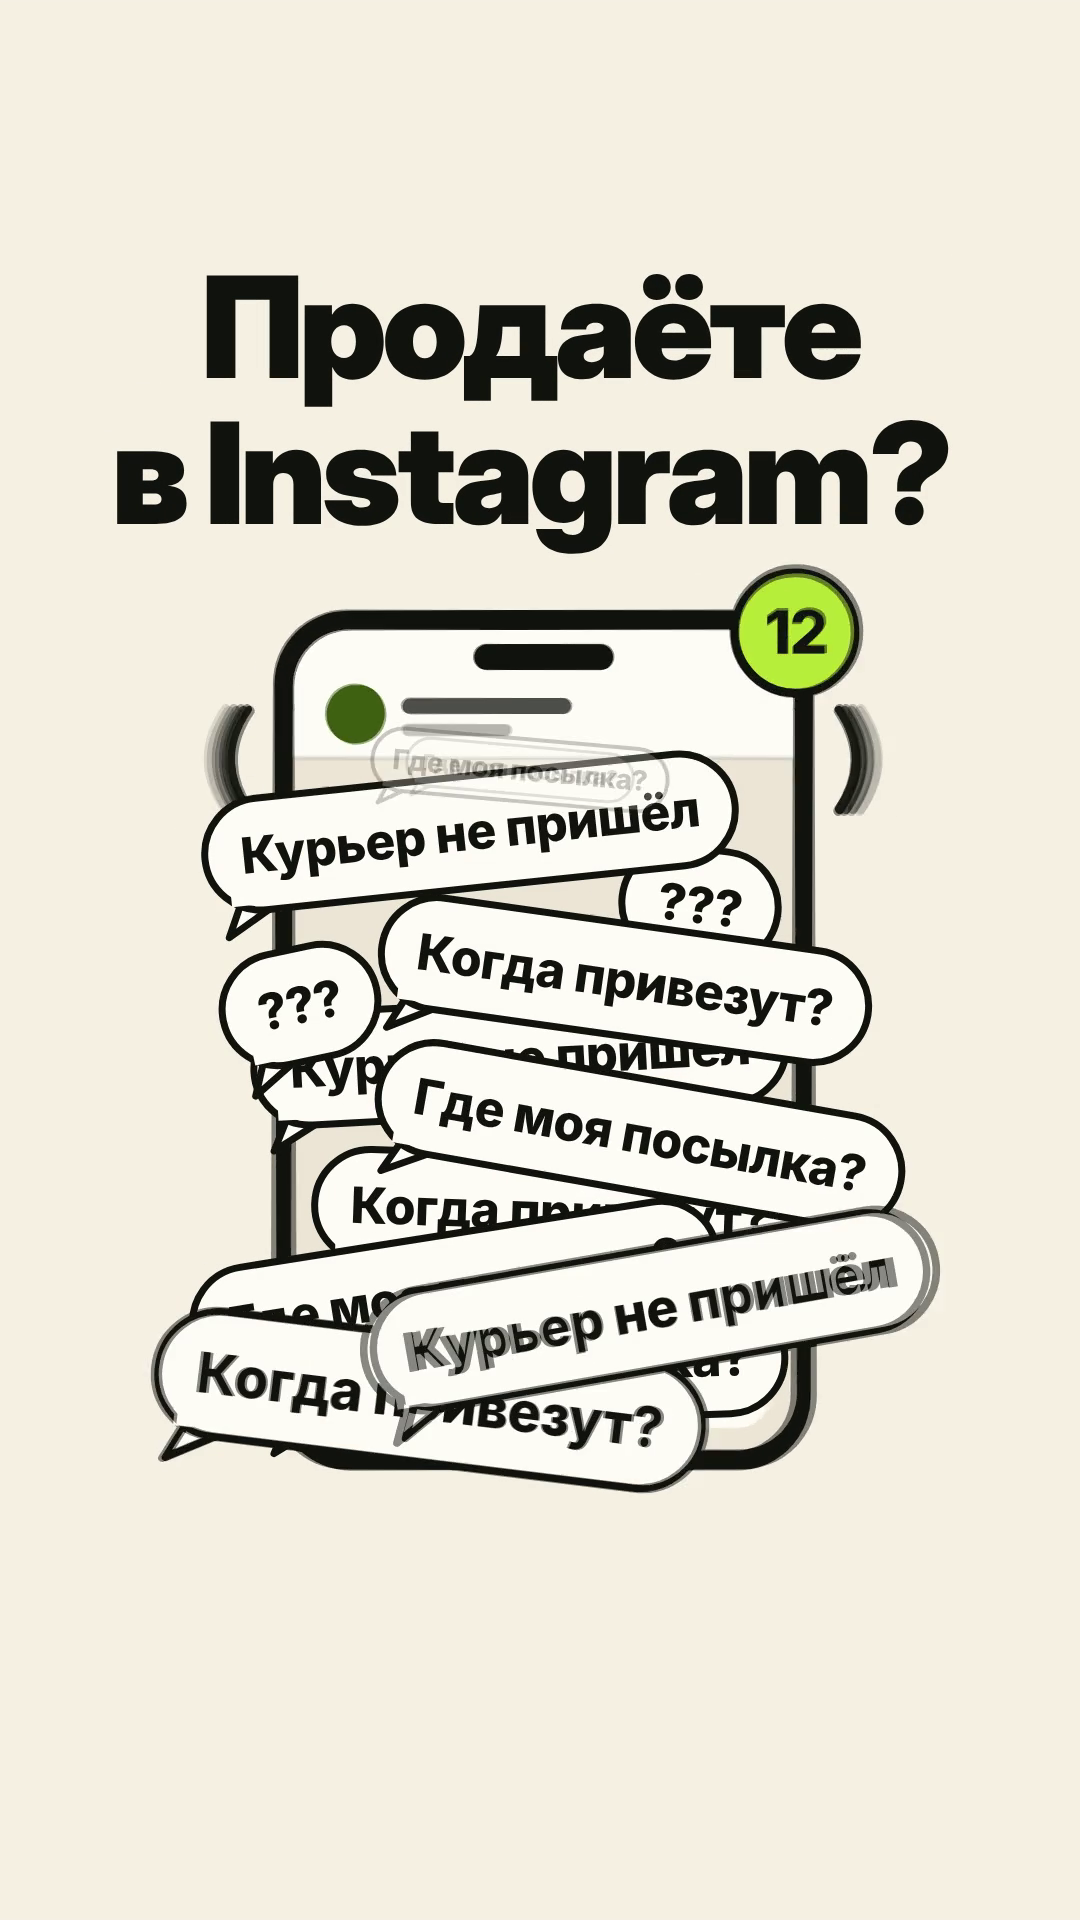
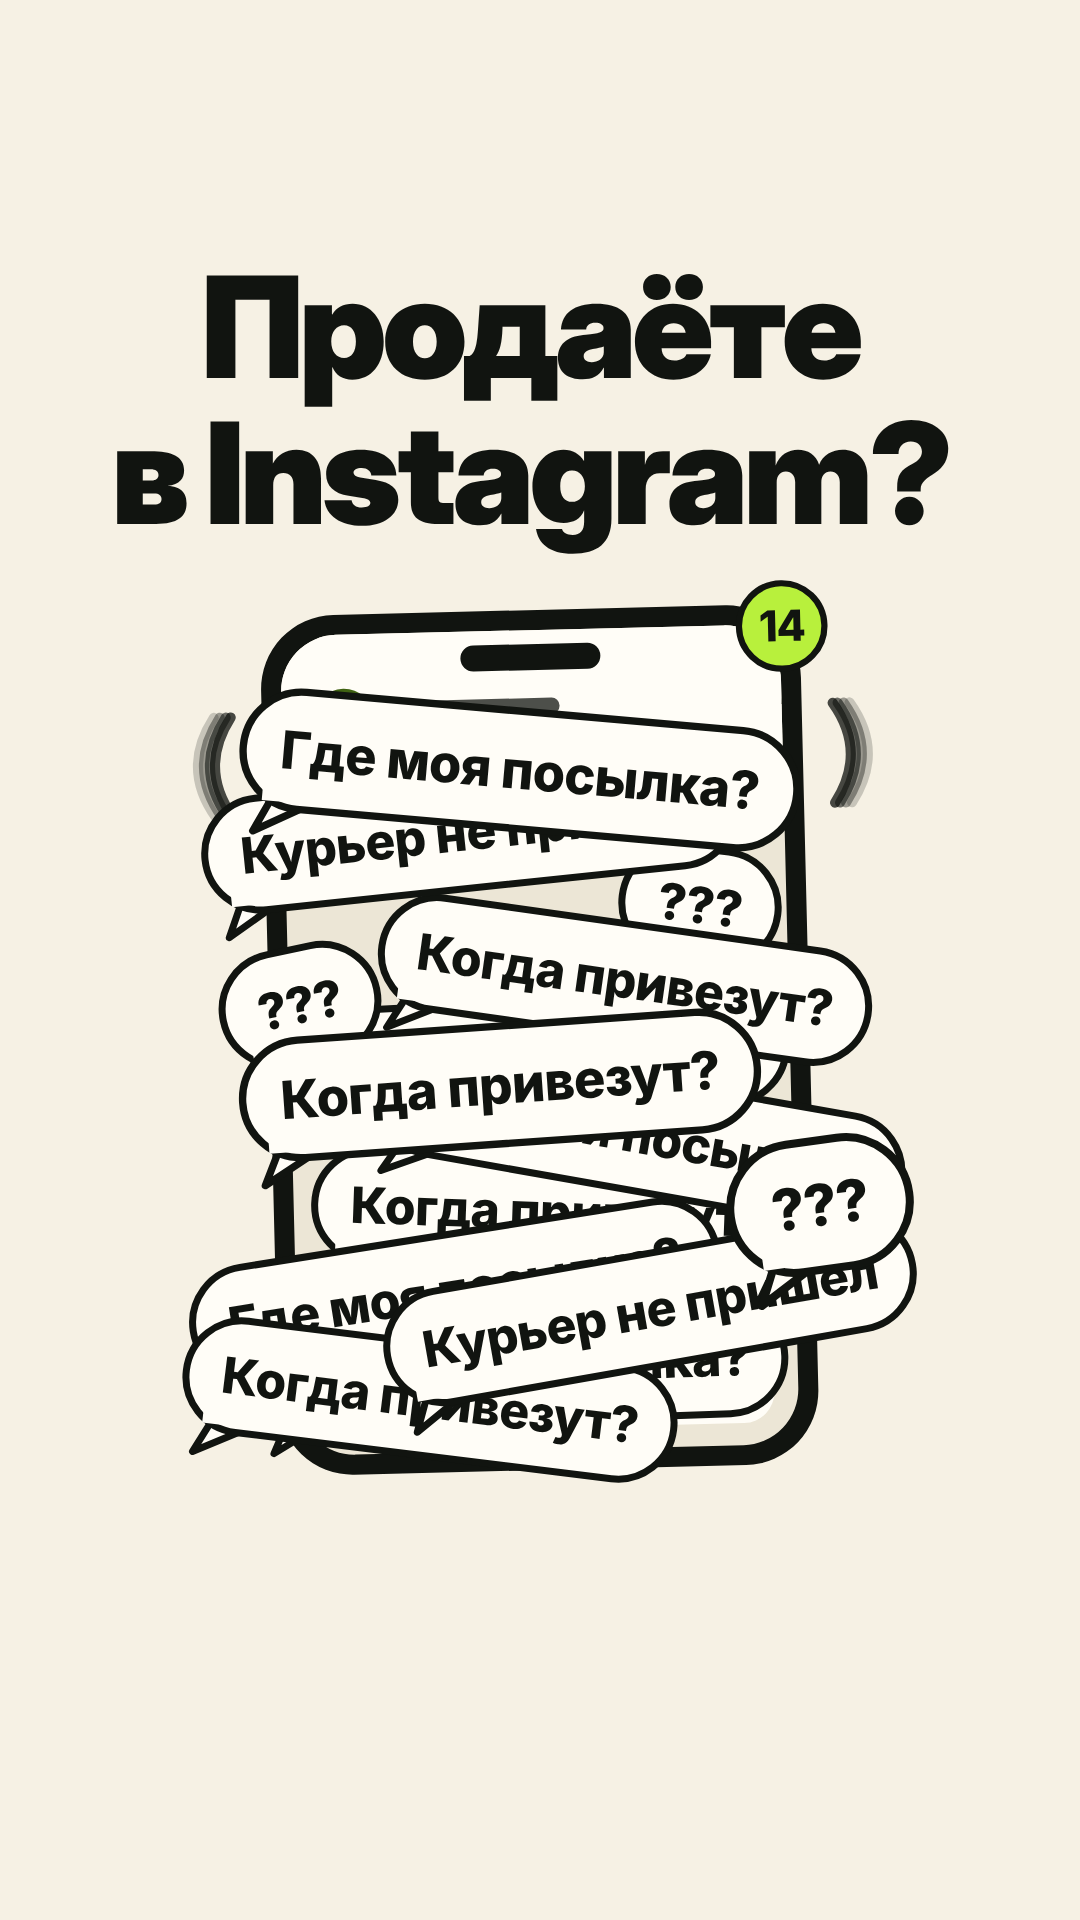
Add Reel 4 «Как отправить посылку»
Claude-Session: https://claude.ai/code/session_01Lm7ffAAt72SNExNHGXPfa4

Changed region(s): [[0.1222, 0.5, 0.8861, 0.7812], [0.1833, 0.2812, 0.825, 0.5], [0.2444, 0.4688, 0.275, 0.5]]

diff --git a/kiwi-go-soon/reels/05-po-vsemu-kg/reel.html b/kiwi-go-soon/reels/05-po-vsemu-kg/reel.html
@@ -20,7 +20,7 @@ svg{display:block}
 // Kiwi Go — Reel 05 «По всему Кыргызстану». Deterministic: render(t) draws the frame at time t (s).
 const C = { lime:'#B8F03C', ink:'#111410', paper:'#FFFDF7', cream:'#F6F1E4', sand:'#ECE6D6',
             peel:'#7A5A3C', green:'#3F6212', rim:'#6BA82B' };
-const W = 1080, H = 1920, CX = 530, DUR = 10.0;
+const W = 1080, H = 1920, CX = 530, DUR = 10.0, MAPY = 740;
 
 // ---------- math / easing ----------
 const clamp = (x, a = 0, b = 1) => Math.min(b, Math.max(a, x));
@@ -81,7 +81,7 @@ const T0 = 3.0, STEP = .55;               // ping times 3.00, 3.55 … 6.30 (bea
 const PING = ORDER.map((_, i) => T0 + i * STEP);
 const LIT = 6.85;                          // whole-country chord
 const HUB = G.hub;
-const DOT = { 'KG.NA': [500, 205], 'KG.DA': [236, 168], 'KG.YK': [664, 118], 'KG.834': [430, 72],
+const DOT = { 'KG.NA': [500, 205], 'KG.DA': [236, 168], 'KG.YK': [652, 168], 'KG.834': [430, 72],
               'KG.OS': [318, 312], 'KG.TL': [196, 96], 'KG.BA': [128, 345] };
 let ROUTES = [], HW = null, HWLEN = 0, OUTLEN = 0, outEl = null;
 
@@ -154,6 +154,12 @@ function mapLayer(t) {
   // ---- internal (oblast) borders, appear after the outline closes
   const ib = prog(t, 2.0, 2.5);
   if (ib > 0) o += `<g clip-path="url(#cc)"><path d="${G.inner}" fill="none" stroke="${C.ink}" stroke-width="3" stroke-linejoin="round" stroke-linecap="round" stroke-dasharray="2 9" opacity="${f2(.55 * ib)}"/></g>`;
+  // ---- Lake Issyk-Kul (real OSM-derived polygon): paper water with a thin ink shore, drawn 1.45–1.95
+  const lk = eInOutS(prog(t, 1.45, 1.95));
+  if (lk > 0) {
+    o += `<path d="${G.lake}" fill="${C.paper}" opacity="${f2(clamp(lk * 3))}"/>`;
+    o += `<path d="${G.lake}" fill="none" stroke="${C.ink}" stroke-width="4" stroke-linejoin="round" pathLength="1000" stroke-dasharray="${f2(1000 * lk)} 1010"/>`;
+  }
   // ---- outline drawing (ink stroke) 0.15–1.85
   const dp = eInOutS(prog(t, .15, 1.85));
   if (dp > 0) {
@@ -218,6 +224,7 @@ function mapLayer(t) {
 let Lh = {};
 function layout() {
   Lh.h = fit(['Доставка', 'по всему', 'Кыргызстану'], 'ID', 770, 150);
+  Lh.q = fit(['Куда', 'доставляем?'], 'ID', 800, 150);
   Lh.kw = measure('Кыргызстану', 'ID', Lh.h, -0.035);
   Lh.pill = fit(['от 350 сом'], 'ID', 640, 120);
   Lh.pillW = measure('от 350 сом', 'ID', Lh.pill, -0.03) + 110;
@@ -231,12 +238,18 @@ function render(t) {
   const mu = eInOutC(prog(t, 6.95, 7.45));
   const sc0 = 1 + .045 * damped(t - LIT, 2.2, 6) * (t >= LIT ? 1 : 0) + .02 * eOutC(prog(t, .0, 1.9)) - .02;
   const sc = lerp(1, .8, mu) * sc0;
-  const cy = lerp(870, 282 + MAP.h * .8 / 2, mu);
+  const cy = lerp(MAPY, 282 + MAP.h * .8 / 2, mu);
   const { o: mo, dyn } = mapLayer(t);
   document.getElementById('dyn').innerHTML = dyn;
   o += `<g transform="translate(${CX},${f2(cy)}) scale(${sc.toFixed(4)}) translate(${f2(-MAP.w / 2)},${f2(-MAP.h / 2)})">${mo}</g>`;
   // celebration seeds when the whole country is lit
-  o += seedBurst(t, LIT, CX, 870, C.ink, 5, 14, 520);
+  o += seedBurst(t, LIT, CX, MAPY, C.ink, 5, 14, 520);
+  // ---- hook question 0 – 6.9 (answered by the headline below)
+  {
+    const qy = 1250, qs = Lh.q * 1.06, qo = [6.85, 6.97];
+    o += popWrap(t, -0.1, text('Куда', CX, qy, Lh.q, C.ink), CX, qy - Lh.q * .36, { out: qo, rot: -5 });
+    o += popWrap(t, 0.08, text('доставляем?', CX, qy + qs, Lh.q, C.ink), CX, qy + qs - Lh.q * .36, { out: qo, rot: 4 });
+  }
   // ---- headline 7.2 – 8.5
   const hy = 830, hs = Lh.h * 1.06, out = [8.42, 8.52];
   o += popWrap(t, 7.2, text('Доставка', CX, hy, Lh.h, C.ink), CX, hy - Lh.h * .36, { out, rot: -5 });

diff --git a/kiwi-go-soon/reels/01-zapustilis/reel.html b/kiwi-go-soon/reels/01-zapustilis/reel.html
@@ -500,8 +500,8 @@ function sceneD(t) {
   const gl = eOutC(prog(t, 9.3, 9.6));
   o += `<rect x="${f2(530 - 300 * gl)}" y="${G + 4}" width="${f2(600 * gl)}" height="12" rx="6" fill="${C.ink}"/>`;
   // wheel spins in from nothing, stops on 9.5 (bell)
-  const u = prog(t, 9.0, 9.5);
-  if (t >= 9.0) {
+  const u = prog(t, 8.93, 9.5);
+  if (t >= 8.93) {
     const s = eOutBack(u, 1.9);
     const ang = -720 * Math.pow(1 - eOutC(u), 1) + (t > 9.5 ? 6 * damped(t - 9.5, 2.2, 4) : 0);
     const land = t > 9.5 ? damped(t - 9.5, 3.5, 9) : 0;
